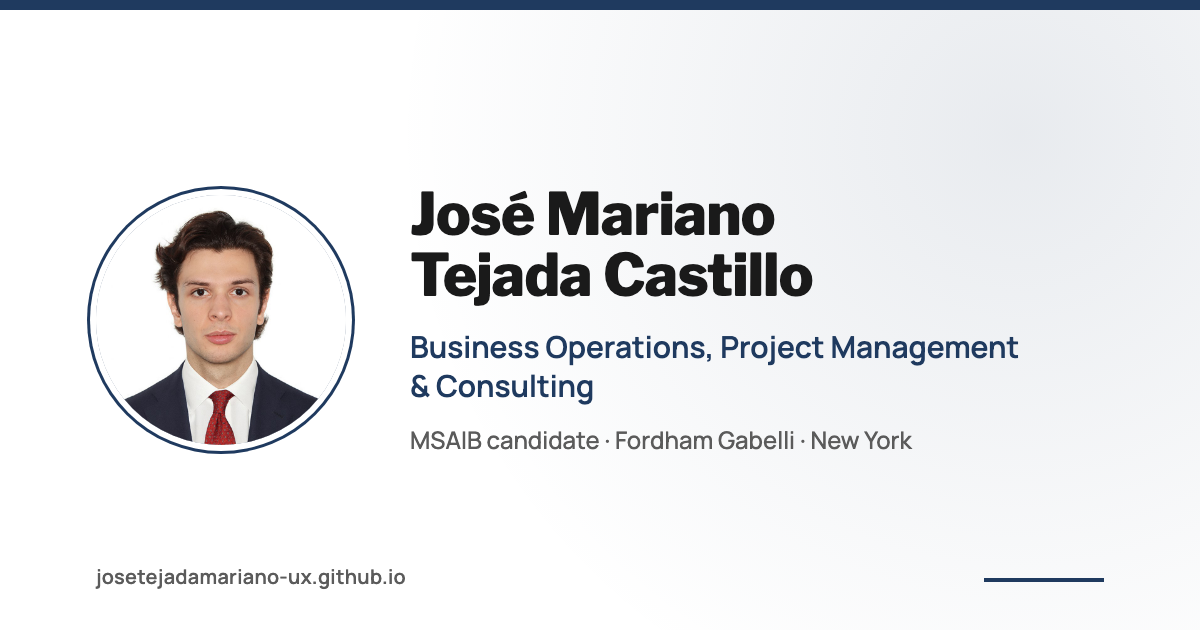
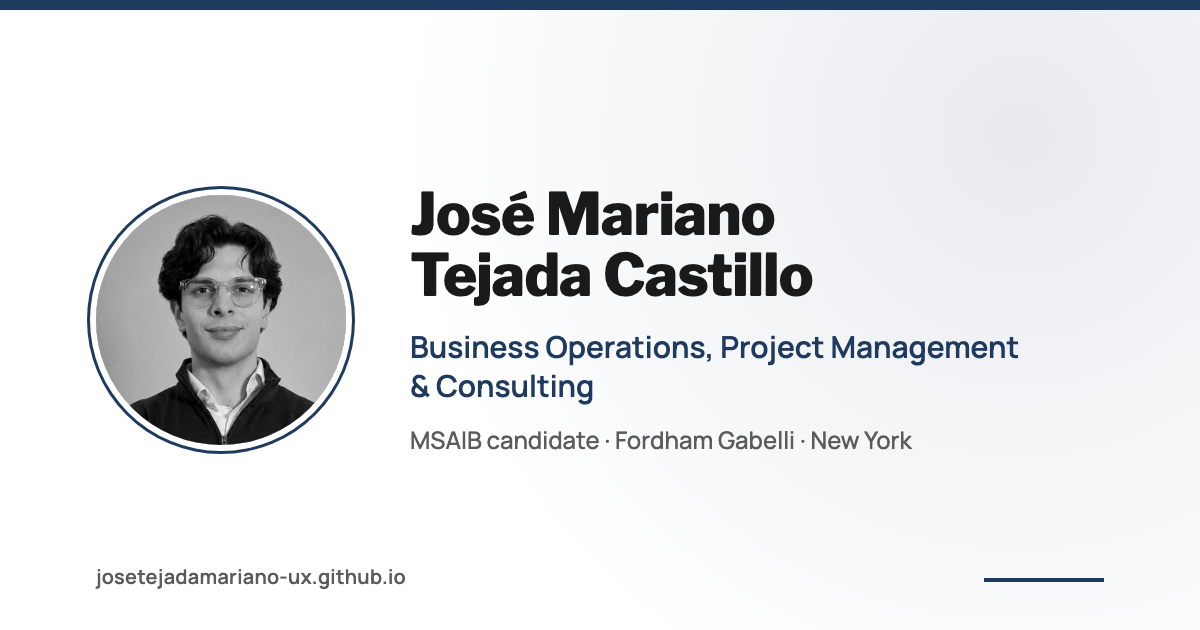
New portrait photo (4:5) in sidebar, updated link-preview card

Changed region(s): [[0.0617, 0.3016, 0.3083, 0.7238]]

diff --git a/style.css b/style.css
@@ -93,8 +93,11 @@ h2{
 @media (max-width:800px){
   .sidebar{position:static;padding:28px 0 20px;border-bottom:1px solid var(--line)}
 }
+@media (max-height:1000px) and (min-width:801px){
+  .sidebar{position:static}
+}
 .headshot{
-  width:clamp(120px, 10vw, 180px);height:clamp(120px, 10vw, 180px);border-radius:12px;object-fit:cover;
+  width:calc(100% - 10px);max-width:290px;height:auto;aspect-ratio:4/5;border-radius:12px;object-fit:cover;
   box-shadow:0 0 0 3px var(--paper), 0 0 0 5px var(--accent), 0 10px 28px var(--shadow-hover);
   margin:5px 0 0 5px;
 }
@@ -123,6 +126,7 @@ h2{
   transition:border-color .16s ease,color .16s ease;
 }
 @media (max-width:800px){ .sb-nav a{padding:2px 0;border-left:0} }
+@media (max-width:800px){ .headshot{max-width:230px} }
 .sb-nav a:hover{color:var(--ink)}
 .sb-nav a[aria-current="page"]{color:var(--ink);font-weight:600;border-left-color:var(--accent)}
 

diff --git a/experience.html b/experience.html
@@ -30,7 +30,7 @@
 <body>
 <div class="shell">
 <aside class="sidebar">
-    <img class="headshot" src="headshot.jpg" alt="José Mariano Tejada Castillo" width="120" height="120">
+    <img class="headshot" src="portrait.jpg" alt="José Mariano Tejada Castillo" width="800" height="1000">
     <div>
       <h1>José Mariano Tejada Castillo</h1>
       <div class="sb-role">Business Operations, Project Management &amp; Consulting</div>

diff --git a/index.html b/index.html
@@ -30,7 +30,7 @@
 <body>
 <div class="shell">
 <aside class="sidebar">
-    <img class="headshot" src="headshot.jpg" alt="José Mariano Tejada Castillo" width="120" height="120">
+    <img class="headshot" src="portrait.jpg" alt="José Mariano Tejada Castillo" width="800" height="1000">
     <div>
       <h1>José Mariano Tejada Castillo</h1>
       <div class="sb-role">Business Operations, Project Management &amp; Consulting</div>

diff --git a/leadership.html b/leadership.html
@@ -30,7 +30,7 @@
 <body>
 <div class="shell">
 <aside class="sidebar">
-    <img class="headshot" src="headshot.jpg" alt="José Mariano Tejada Castillo" width="120" height="120">
+    <img class="headshot" src="portrait.jpg" alt="José Mariano Tejada Castillo" width="800" height="1000">
     <div>
       <h1>José Mariano Tejada Castillo</h1>
       <div class="sb-role">Business Operations, Project Management &amp; Consulting</div>

diff --git a/resume.html b/resume.html
@@ -30,7 +30,7 @@
 <body>
 <div class="shell">
 <aside class="sidebar">
-    <img class="headshot" src="headshot.jpg" alt="José Mariano Tejada Castillo" width="120" height="120">
+    <img class="headshot" src="portrait.jpg" alt="José Mariano Tejada Castillo" width="800" height="1000">
     <div>
       <h1>José Mariano Tejada Castillo</h1>
       <div class="sb-role">Business Operations, Project Management &amp; Consulting</div>
